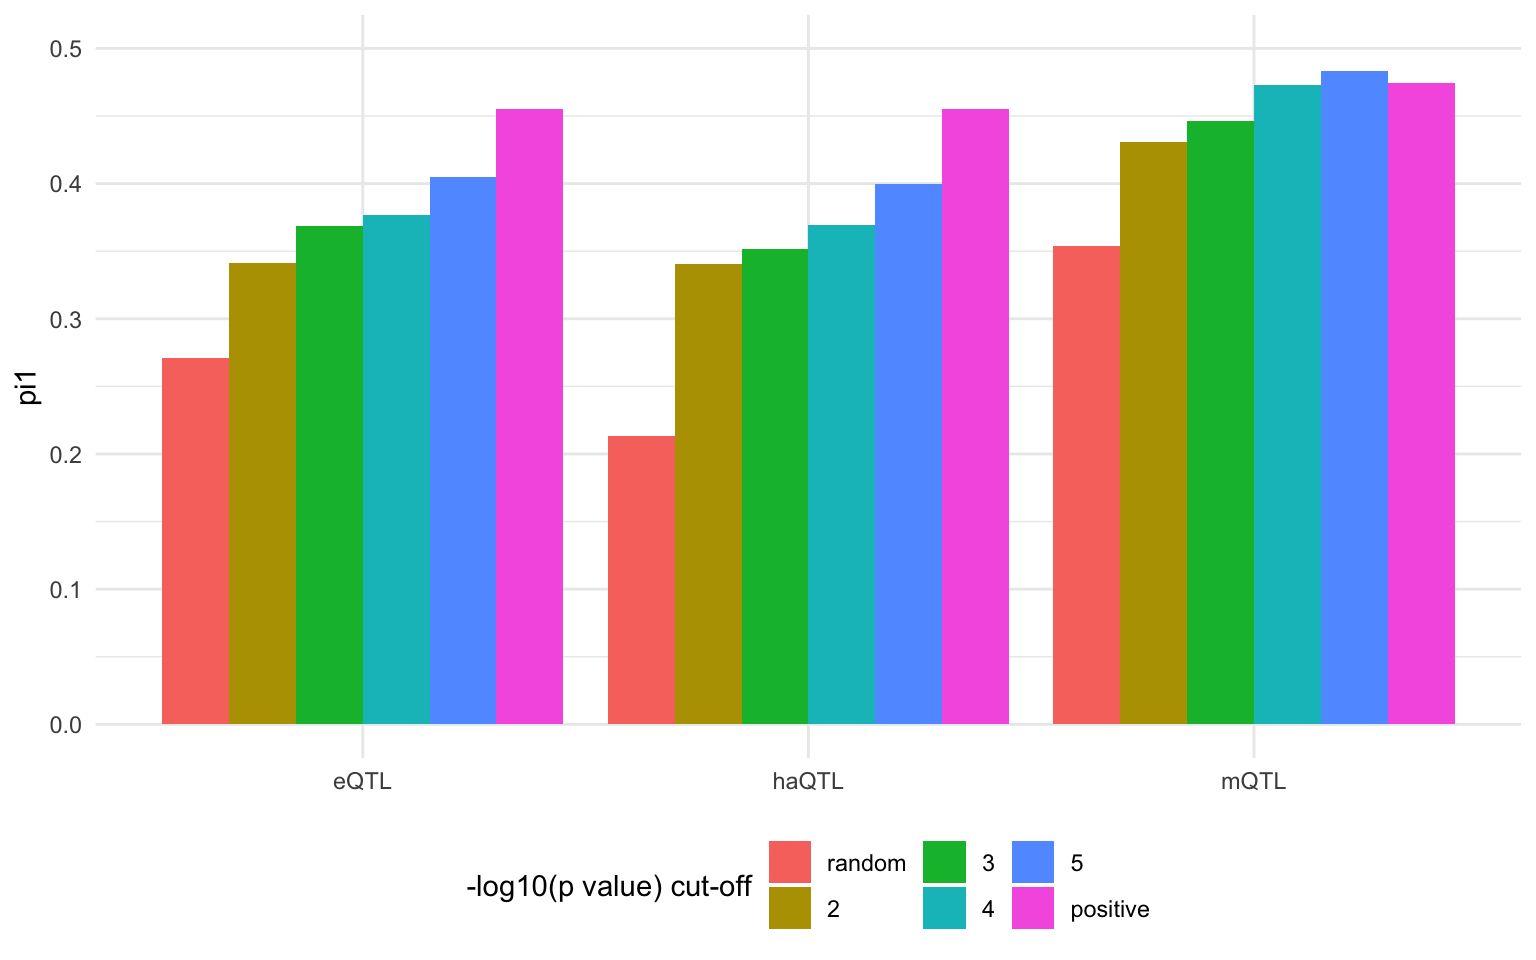
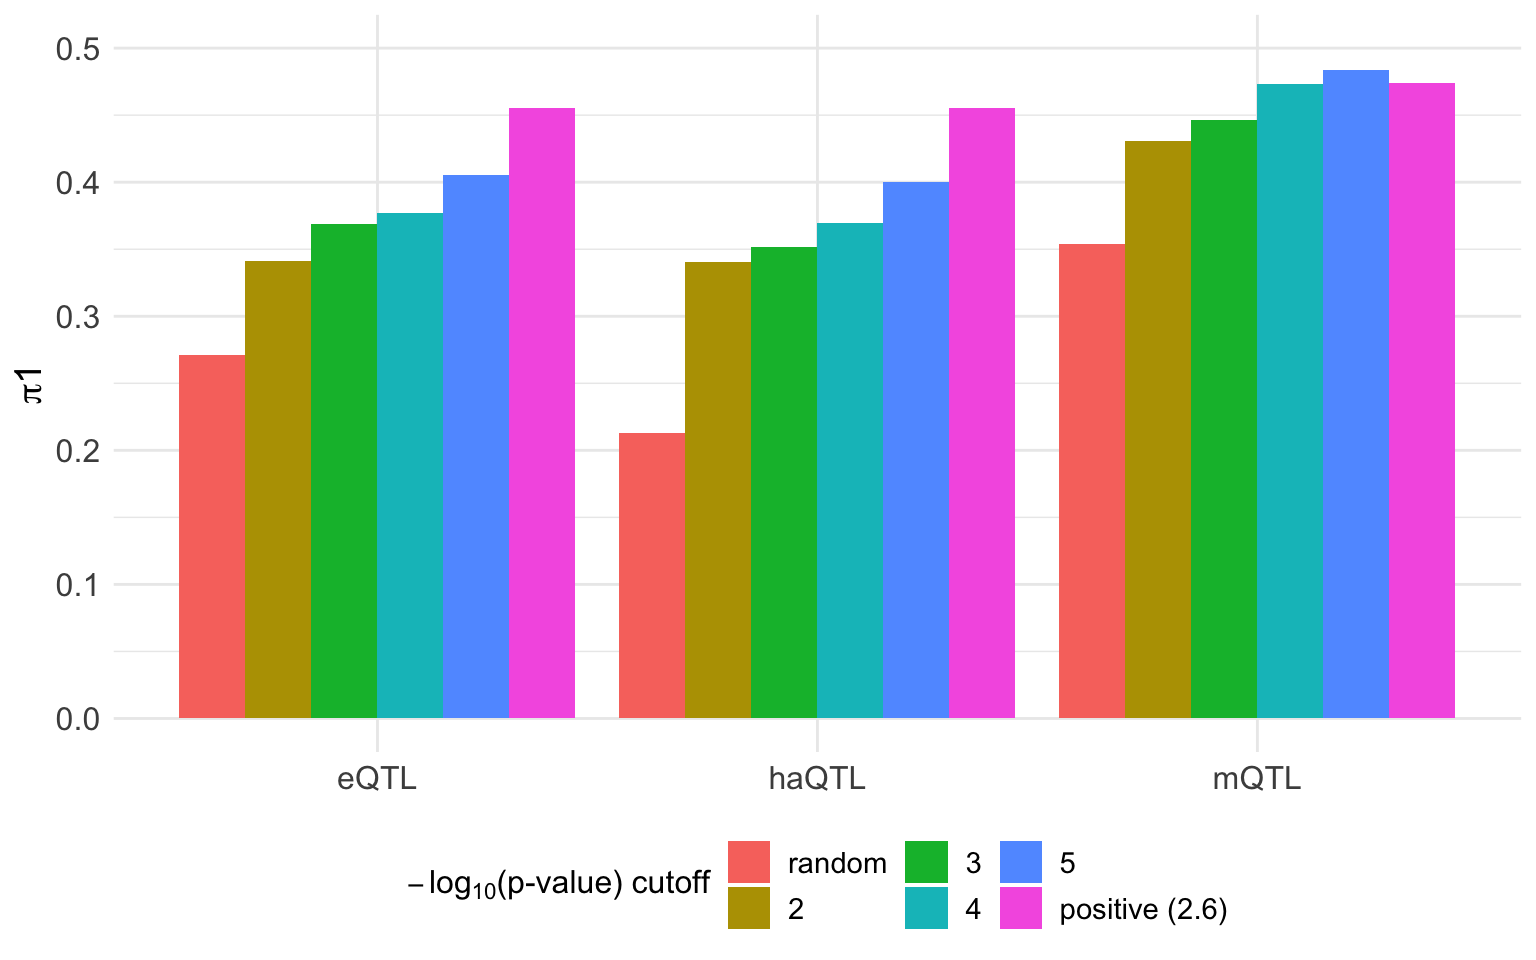
plots

diff --git a/ASoC_in_QTL.enrich_ctrl.html b/ASoC_in_QTL.enrich_ctrl.html
@@ -956,9 +956,13 @@ pi1_pval$type &lt;- rep(c(&#39;eQTL&#39;,&#39;mQTL&#39;,&#39;haQTL&#39;), each=n
 pi1_pval$thres &lt;- factor(pi1_pval$thres)
 pi1_pval$thres &lt;- relevel(pi1_pval$thres,&#39;random&#39;)
 ggplot(pi1_pval, aes(x=factor(type), y=pi1, fill = thres)) + 
-  geom_bar(stat=&quot;identity&quot;, position = &#39;dodge&#39;) + theme_minimal() + # ylim(low=0,high=0.6) +
+  geom_bar(stat=&quot;identity&quot;, position = &#39;dodge&#39;) + theme_minimal() + 
   theme(axis.title.x = element_blank(), legend.position=&quot;bottom&quot;) + 
-  labs(fill = &quot;-log10(p value) cut-off&quot;) + ylim(0,0.5)</code></pre>
+  labs(y = expression(pi*&#39;1&#39;), fill = expression(-log[10]*&#39;(p-value) cutoff&#39;)) + ylim(0,0.5) + 
+  scale_fill_discrete(labels=c(&#39;random&#39;,&#39;2&#39;,&#39;3&#39;,&#39;4&#39;,&#39;5&#39;,&#39;positive (2.6)&#39;)) +
+  theme(axis.text = element_text(size=12), axis.title.x = element_blank(), 
+        axis.title = element_text(size=14,face=&quot;bold&quot;), 
+        legend.text = element_text(size = 11), legend.title = element_text(size = 12,face = &#39;bold&#39;))</code></pre>
 <p><img src="Figs/combined%20pval-1.png" width="768" style="display: block; margin: auto;" /></p>
 </div>
 <div id="varing-asoc-fdr-threshold" class="section level3">
@@ -1134,14 +1138,21 @@ names(torus.plot.df)[2] &lt;- &#39;log2.odds_ratio&#39;
 torus.plot.df$QTL_type = rep(c(&#39;eQTL&#39;,&#39;mQTL&#39;,&#39;haQTL&#39;),times = 2)
 torus.plot.df &lt;- torus.plot.df[c(1,4,2,5,3,6),]
 torus.plot.df$type &lt;- c(&#39;eQTL_ASoC&#39;,&#39;eQTL_OCR&#39;,&#39;haQTL_ASoC&#39;,&#39;haQTL_OCR&#39;,&#39;mQTL_ASoC&#39;,&#39;mQTL_OCR&#39;)
-torus.plot.df$type &lt;- factor(torus.plot.df$type,
-                             levels = c(&#39;eQTL_ASoC&#39;,&#39;eQTL_OCR&#39;,&#39;haQTL_ASoC&#39;,&#39;haQTL_OCR&#39;,&#39;mQTL_ASoC&#39;,&#39;mQTL_OCR&#39;))
-ggplot() + geom_pointrange(torus.plot.df, mapping = aes(x=type, y=log2.odds_ratio, 
-                           ymin=low.CI, ymax=high.CI, col=factor(QTL_type)), 
-                           size = 1.5, fatten = 2) +
-  ylim(0,8) + theme_minimal() + labs(y = &#39;log2 (fold of enrichment)&#39;, col = &#39;QTL type&#39;) +
-  theme(axis.text=element_text(size=12), axis.title=element_text(size=14,face=&quot;bold&quot;)) +
-  coord_flip()</code></pre>
+torus.plot.df$annotation_type &lt;- rep(c(&#39;ASoC&#39;,&#39;OCR&#39;),times = 3)</code></pre>
+<pre class="r"><code># ggplot() + geom_pointrange(torus.plot.df, mapping = aes(x=type, y=log2.odds_ratio, 
+#                            ymin=low.CI, ymax=high.CI, col=factor(QTL_type)), 
+#                            size = 1.5, fatten = 2) +
+#   ylim(0,8) + theme_minimal() + labs(y = &#39;log2 (fold of enrichment)&#39;, col = &#39;QTL type&#39;) +
+#   theme(axis.text=element_text(size=12), axis.title=element_text(size=14,face=&quot;bold&quot;)) +
+#   coord_flip()
+
+ggplot(torus.plot.df, aes(x=QTL_type, y=log2.odds_ratio, fill=factor(annotation_type))) + 
+    geom_bar(stat=&quot;identity&quot;, position=position_dodge()) + 
+    geom_errorbar(aes(ymin=low.CI, ymax=high.CI), width=.1, position=position_dodge(.9), size = 1) +
+    ylim(0,8) + theme_classic() + labs(y = &#39;log2 (fold of enrichment)&#39;, fill = &#39;annotation&#39;) +
+    theme(axis.text = element_text(size=12), axis.title.x = element_blank(), 
+          axis.title = element_text(size=14,face=&quot;bold&quot;), 
+          legend.text = element_text(size = 11), legend.title = element_text(size = 12,face = &#39;bold&#39;))</code></pre>
 <p><img src="Figs/torus.res-1.png" width="768" style="display: block; margin: auto;" /></p>
 </div>
 

diff --git a/ASoC_genomic_elements.enrich.html b/ASoC_genomic_elements.enrich.html
@@ -850,7 +850,18 @@ fold.ggplot$snp.type &lt;- factor(fold.ggplot$snp.type,
 ggplot(data = fold.ggplot, aes(x=snp.type,y=fold, color=model, shape=annotation)) +
   geom_point(size = 4) + labs(x = &#39;ASoC SNP type&#39;,y = &#39;log10(fold of enrichment)&#39;) +
   theme(axis.text=element_text(size=12),axis.title=element_text(size=14,face=&quot;bold&quot;))</code></pre>
-<p><img src="Figs/unnamed-chunk-28-1.png" width="576" style="display: block; margin: auto;" /></p>
+<p><img src="Figs/unnamed-chunk-10-1.png" width="576" style="display: block; margin: auto;" /></p>
+<p>Formal plot for the paper:</p>
+<pre class="r"><code>fold.25 &lt;- fold.ggplot[c(7,8,10,11),]
+fold.25$snp.type &lt;- as.character(fold.25$snp.type)
+fold.25$snp.type[c(2,4)] &lt;- &#39;specific&#39;
+fold.25$snp.type &lt;- factor(fold.25$snp.type)
+ggplot(data = fold.25, aes(x=snp.type, y=fold, color=annotation, shape=annotation)) +
+  geom_point(size = 4) + theme_bw() +
+  labs(x = &#39;ASoC SNP type&#39;,y = expression(&#39;log&#39;[10]*&#39; (fold of enrichment)&#39;)) +
+  theme(axis.text=element_text(size=12),axis.title=element_text(size=14),
+        legend.text = element_text(size = 11), legend.title = element_text(size = 12,face = &#39;bold&#39;))</code></pre>
+<p><img src="Figs/unnamed-chunk-11-1.png" width="576" style="display: block; margin: auto;" /></p>
 </div>
 
 
